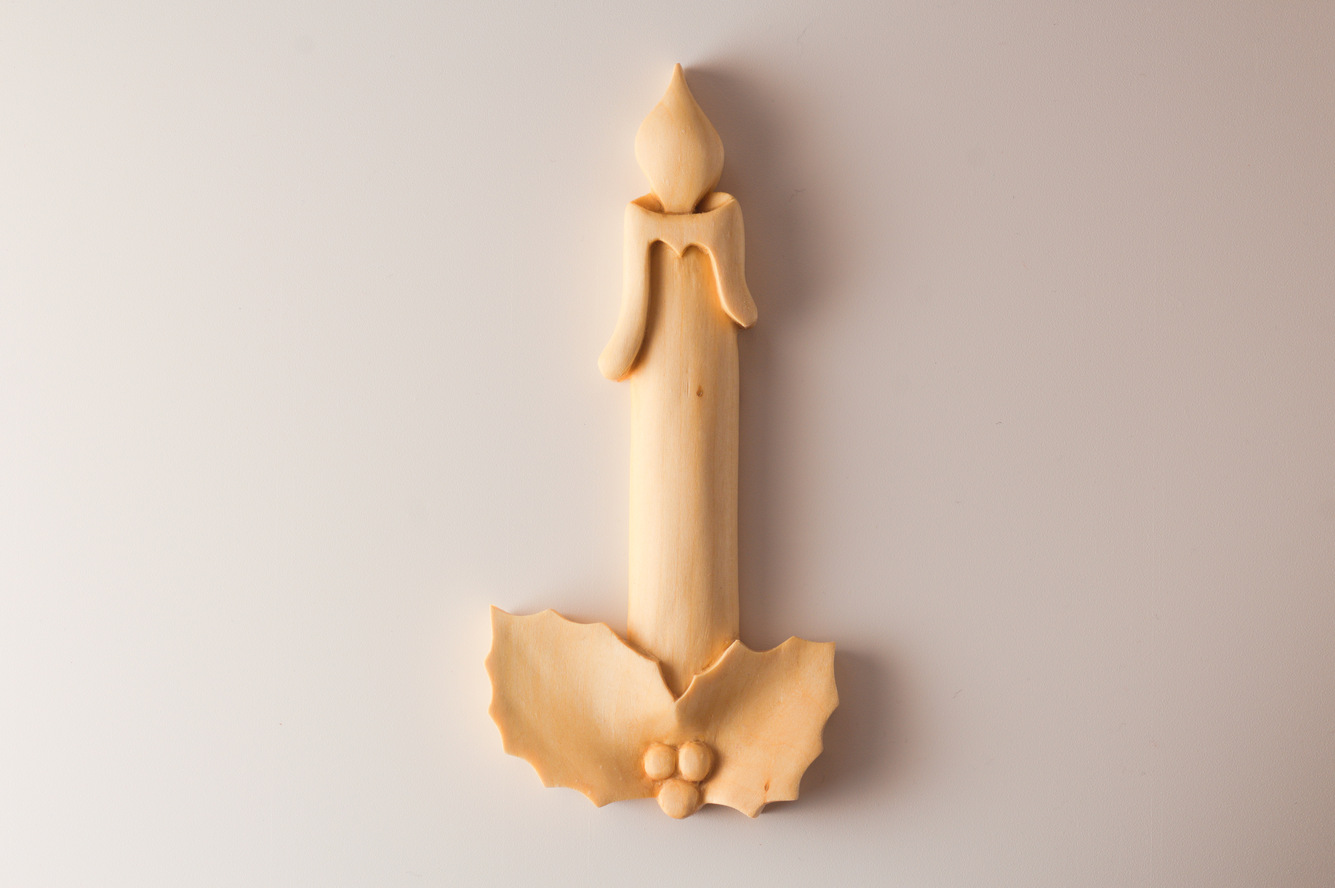
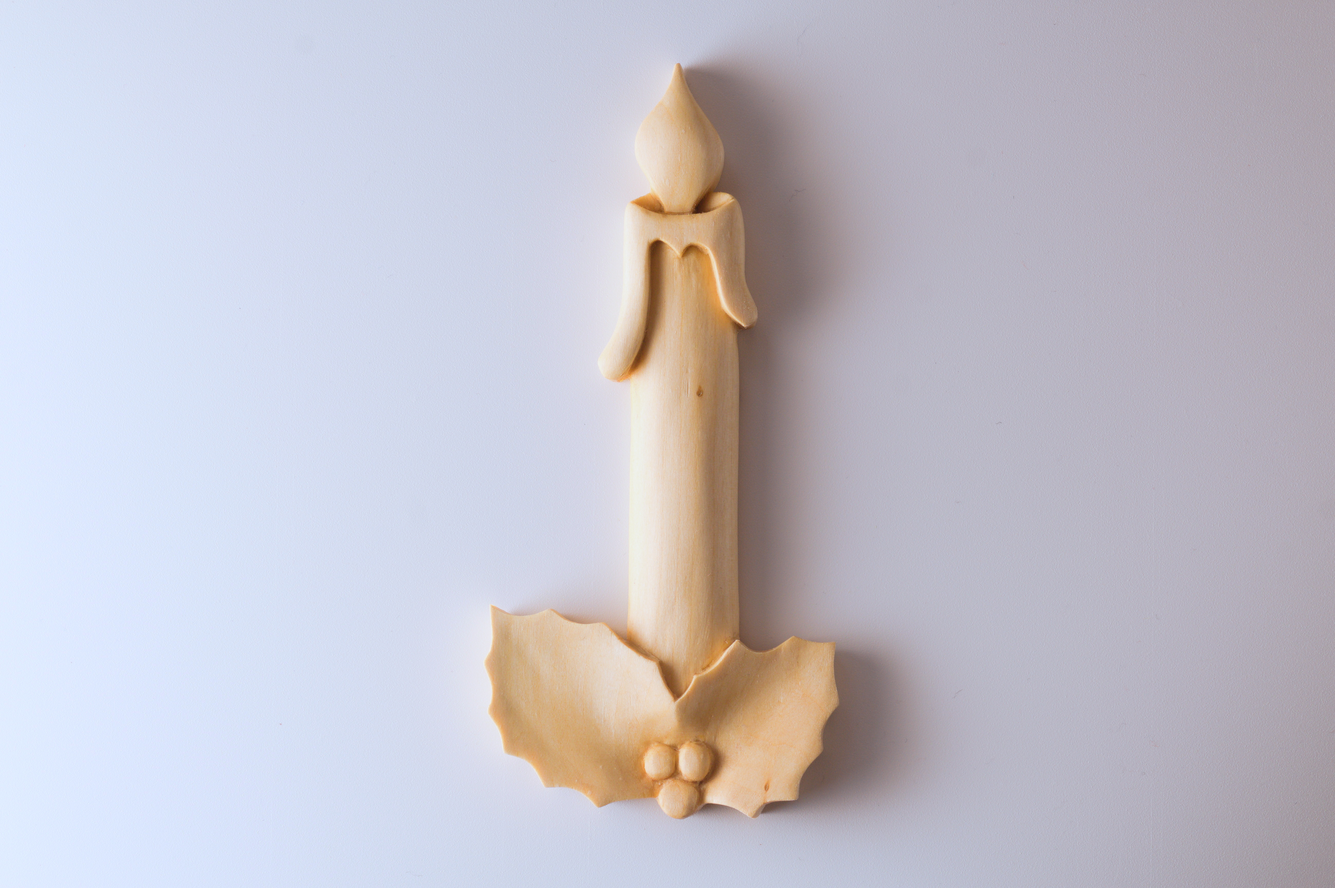
Update site

diff --git a/layouts/section/about.html b/layouts/section/about.html
@@ -3,7 +3,7 @@
   <br>
   <div class="image-left">
     {{ with .Site.GetPage "images/foto" }}
-    {{ $image := index (.Resources.Match "foto.jpeg") 0 }}
+    {{ $image := index (.Resources.Match "foto.jpg") 0 }}
     {{ if $image }}
     {{ $resized := $image.Fit "50x50" }}
     <img src="{{ $resized.RelPermalink }}" alt="{{ $image.Name }}" loading="lazy">
@@ -11,14 +11,10 @@
     {{ end }}
     <h2>Hauke van der Mark</h2>
   </div>
-  <p>Op de basisschool (boerderijschool zijldijk) ben ik begonnen met houtbewerking.
-    Tijdens de les handenarbeid maakten we daar verschillende dingen van hout zoals handbogen, boomerang en bijvoorbeeld
-    een kleine schildersezel. Op deze schildersezel heb ik voor het eerst figuren in hout gesneden.
-  </p>
-  <p>Op de middelbare school(Parcival college) heb ik ook les in houtbewerking gehad. Daar heb ik onder andere een
-    flessenhamer, krukje en een kano gemaakt.</p>
   </div>
+  <h2>Schoolwerkstukken</h2>
   <div class="grid-container">
+  
     {{ with .Site.GetPage "schoolwerkstukken" }}
     {{ range .Resources.ByType "image" }}
     {{ $img := .Fit "250x250" }}

diff --git a/assets/main.css b/assets/main.css
@@ -6,7 +6,7 @@ html {
 body {
   margin: 0 auto;
   max-width: 45rem;
-  padding: 0 8px;
+  padding: 0 4px;
   padding-bottom: 8px;
   font-family: Palatino, 'Palatino Linotype', 'Palatino LT STD', 'Book Antiqua', Georgia, serif;
   color: #111;
@@ -49,7 +49,6 @@ figcaption {
 a,
 a:visited {
   color: #a00;
-  /* text-decoration: underline 1px; */
   text-underline-offset: 2px;
 }
 
@@ -128,3 +127,11 @@ footer {
   transform: scale(1.2); /* Slightly enlarge on hover */
 }
 
+img {
+    cursor: pointer;
+    transition: transform 0.2s ease;
+}
+
+img:hover {
+    transform: scale(1.01);
+}

diff --git a/layouts/index.html b/layouts/index.html
@@ -4,7 +4,7 @@
     <div class="grid-container">
       {{ with .Site.GetPage "houtsnijwerk" }}
         {{ range .Resources.ByType "image" }}
-          {{ $img := .Fit "250x250" }}
+          {{ $img := .Fit "375x375" }}
           {{ $largeImg := .Fit "850x850" }}
           <figure>
             <a href="{{ $largeImg.RelPermalink }}">
